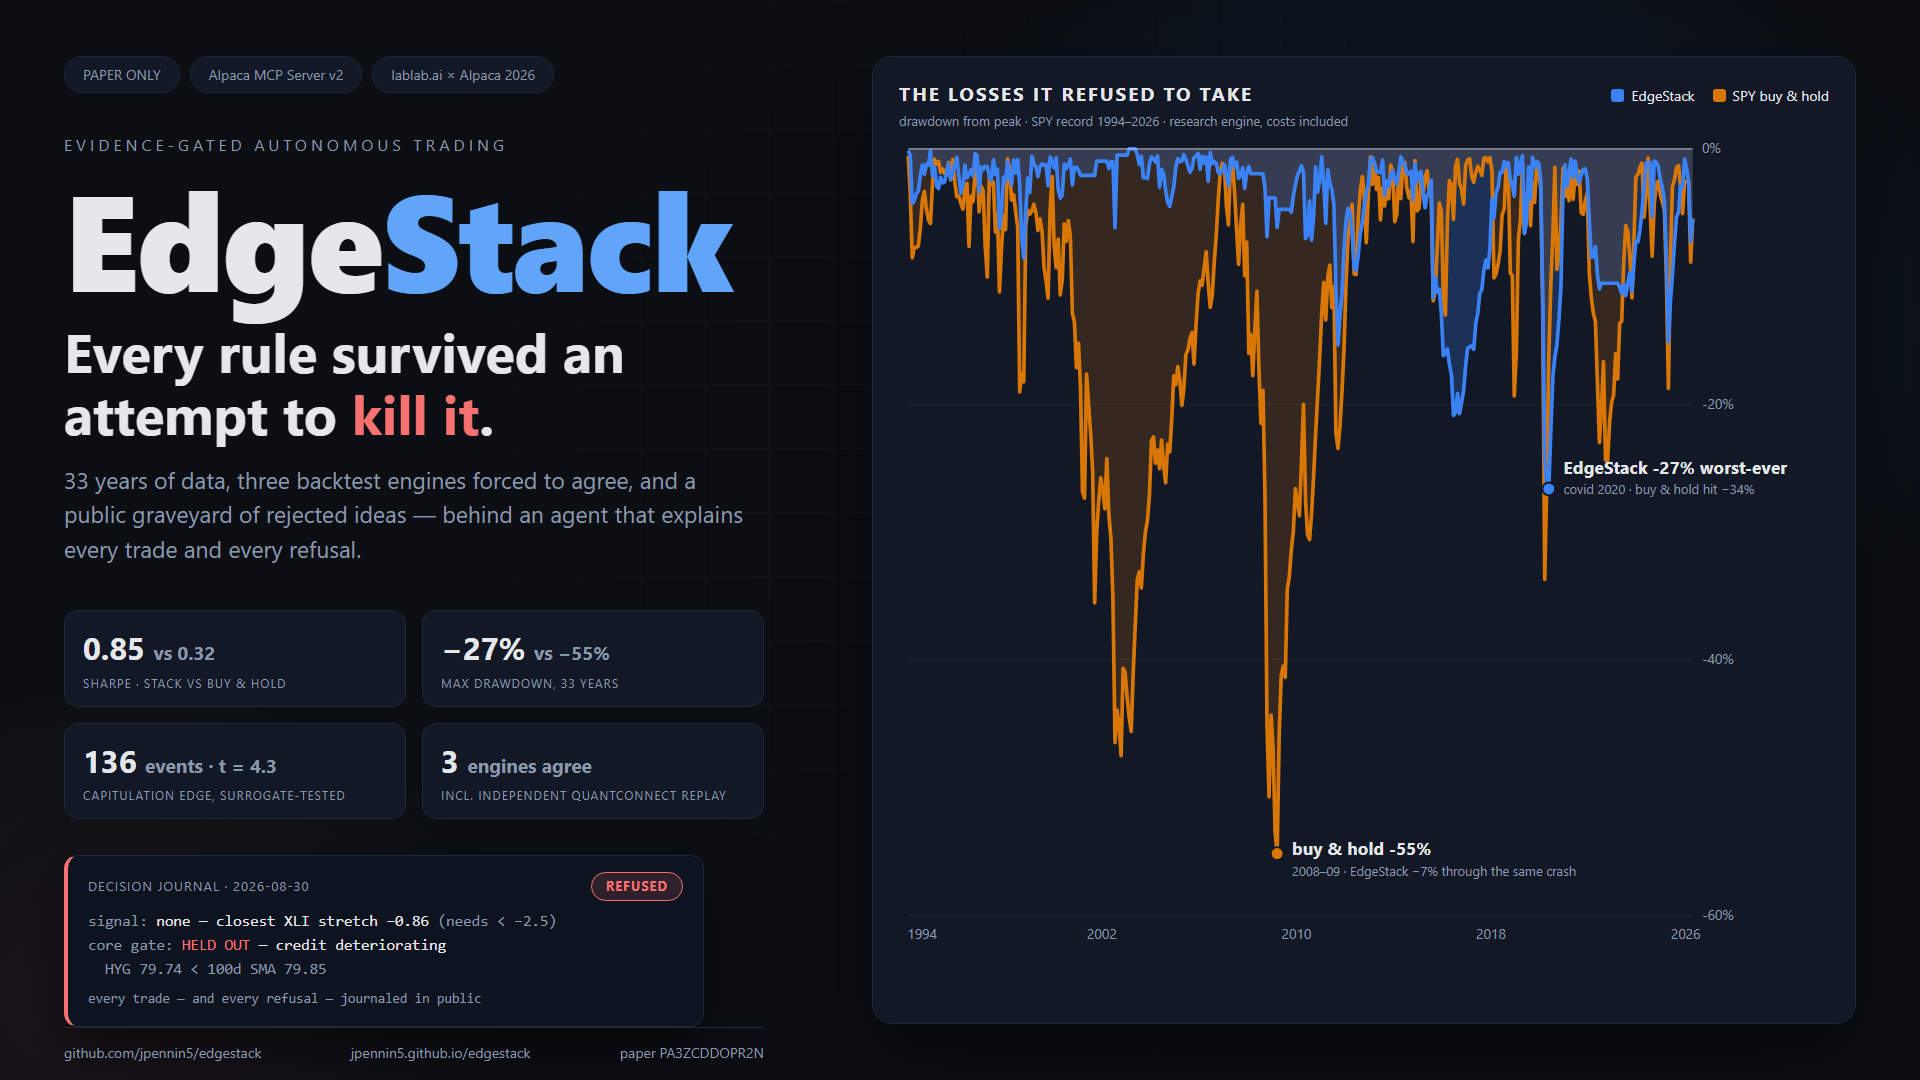
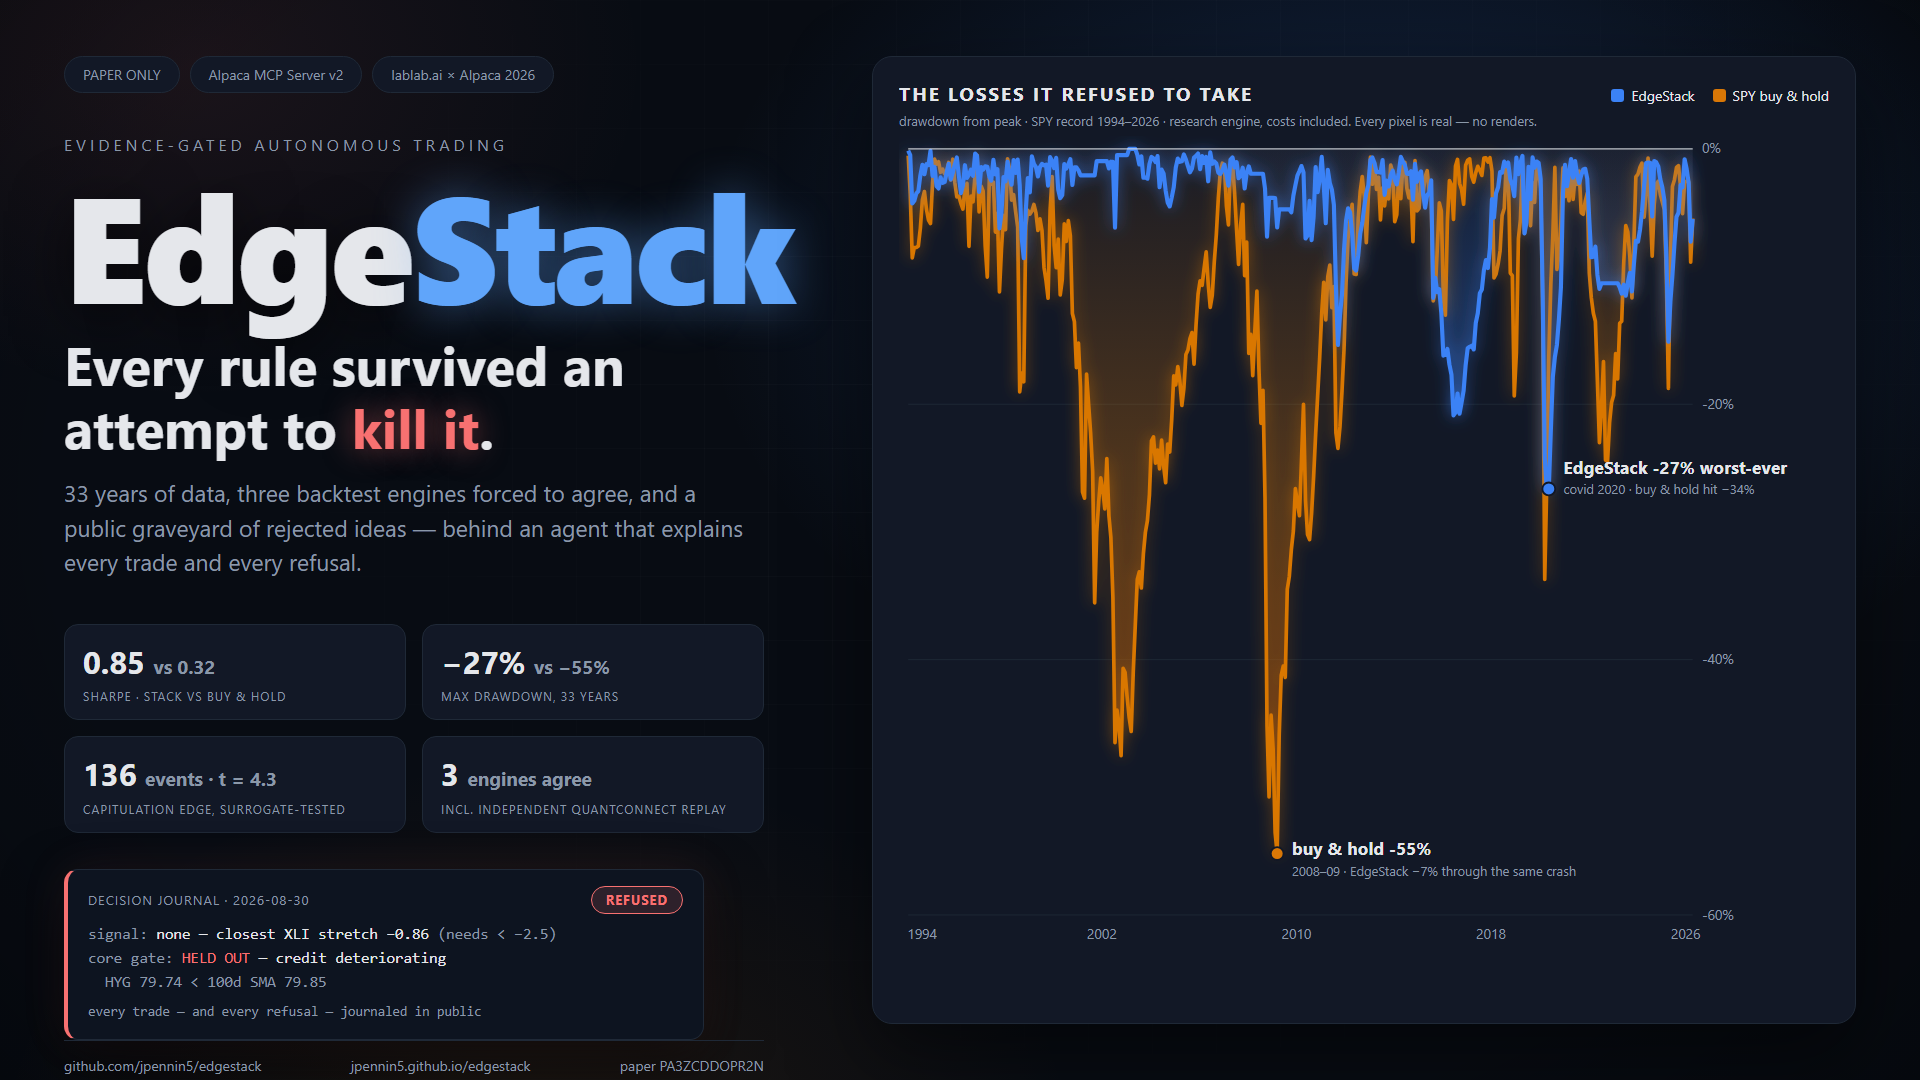
Cover: poster-grade pass after studying live competitor covers
Competitors run cinematic AI renders (engine/fortress/shield metaphors);
counter-position with cinematic treatment of the real record instead:
glow-filtered strokes, depth-graded canyon fills, atmospheric vignette,
150px wordmark with halo, and the line 'Every pixel is real - no renders'
under the chart title. Data and layout unchanged.

diff --git a/video/build_cover.py b/video/build_cover.py
@@ -54,12 +54,29 @@ cov_x, cov_y = sx(ts[0]), sy(ts[1])
 
 SVG = f"""
 <svg viewBox='0 0 {W} {H}' xmlns='http://www.w3.org/2000/svg' font-family='Segoe UI,system-ui,sans-serif'>
+  <defs>
+    <linearGradient id='af' x1='0' y1='0' x2='0' y2='1'>
+      <stop offset='0' stop-color='{AMBER}' stop-opacity='.04'/>
+      <stop offset='.45' stop-color='{AMBER}' stop-opacity='.30'/>
+      <stop offset='1' stop-color='#92400e' stop-opacity='.60'/>
+    </linearGradient>
+    <linearGradient id='bf' x1='0' y1='0' x2='0' y2='1'>
+      <stop offset='0' stop-color='{BLUE}' stop-opacity='.06'/>
+      <stop offset='1' stop-color='{BLUE}' stop-opacity='.44'/>
+    </linearGradient>
+    <filter id='ga' x='-30%' y='-30%' width='160%' height='160%'>
+      <feDropShadow dx='0' dy='0' stdDeviation='8' flood-color='{AMBER}' flood-opacity='.50'/>
+    </filter>
+    <filter id='gb' x='-30%' y='-30%' width='160%' height='160%'>
+      <feDropShadow dx='0' dy='0' stdDeviation='8' flood-color='{BLUE}' flood-opacity='.60'/>
+    </filter>
+  </defs>
   {grid_rows}{grid_cols}
-  <path d='{path(2, close=True)}' fill='{AMBER}' fill-opacity='.18'/>
-  <path d='{path(1, close=True)}' fill='{BLUE}' fill-opacity='.24'/>
-  <path d='{path(2)}' fill='none' stroke='{AMBER}' stroke-width='4' stroke-linejoin='round'/>
-  <path d='{path(1)}' fill='none' stroke='{BLUE}' stroke-width='4' stroke-linejoin='round'/>
-  <line x1='{PL}' y1='{sy(0):.1f}' x2='{W-PR}' y2='{sy(0):.1f}' stroke='#e5e7eb' stroke-width='1.5' opacity='.65'/>
+  <path d='{path(2, close=True)}' fill='url(#af)'/>
+  <path d='{path(1, close=True)}' fill='url(#bf)'/>
+  <path d='{path(2)}' fill='none' stroke='{AMBER}' stroke-width='4' stroke-linejoin='round' filter='url(#ga)'/>
+  <path d='{path(1)}' fill='none' stroke='{BLUE}' stroke-width='4.5' stroke-linejoin='round' filter='url(#gb)'/>
+  <line x1='{PL}' y1='{sy(0):.1f}' x2='{W-PR}' y2='{sy(0):.1f}' stroke='#e5e7eb' stroke-width='1.5' opacity='.8'/>
 
   <circle cx='{gfc_x:.1f}' cy='{gfc_y:.1f}' r='7' fill='{AMBER}' stroke='#121826' stroke-width='2'/>
   <text x='{gfc_x+16:.1f}' y='{gfc_y+2:.1f}' fill='#e5e7eb' font-size='19' font-weight='700'>buy &amp; hold {META['dd_bh']:.0f}%</text>
@@ -72,11 +89,13 @@ SVG = f"""
 
 HTML = f"""<!doctype html><html><head><meta charset='utf-8'><style>
 *{{box-sizing:border-box;margin:0}}
-body{{width:1920px;height:1080px;background:#0b0f14;color:#e5e7eb;overflow:hidden;
+body{{width:1920px;height:1080px;background:#080c13;color:#e5e7eb;overflow:hidden;
 font:16px/1.5 'Segoe UI',system-ui,sans-serif;position:relative}}
 body::before{{content:'';position:absolute;inset:0;
-background:radial-gradient(900px 640px at 74% 30%,rgba(59,130,246,.16),transparent 65%),
-radial-gradient(700px 520px at 6% 92%,rgba(248,113,113,.07),transparent 60%)}}
+background:radial-gradient(1100px 780px at 72% 26%,rgba(59,130,246,.22),transparent 62%),
+radial-gradient(900px 640px at 28% 106%,rgba(217,119,6,.10),transparent 60%),
+radial-gradient(760px 560px at 10% 6%,rgba(248,113,113,.08),transparent 60%),
+radial-gradient(1700px 1250px at 50% 46%,transparent 52%,rgba(0,0,0,.58) 100%)}}
 body::after{{content:'';position:absolute;inset:0;
 background:linear-gradient(#ffffff08 1px,transparent 1px),
 linear-gradient(90deg,#ffffff08 1px,transparent 1px);background-size:64px 64px;
@@ -88,10 +107,11 @@ mask-image:radial-gradient(1200px 900px at 60% 40%,#000,transparent 85%)}}
 font-size:14px;color:#8b98a9}}
 .kicker{{color:#8b98a9;letter-spacing:4px;font-size:16px;text-transform:uppercase;
 margin-bottom:10px}}
-.wordmark{{font-size:136px;font-weight:800;line-height:1.02;letter-spacing:-2px}}
-.wordmark .acc{{color:#60a5fa}}
-.headline{{font-size:54px;font-weight:700;line-height:1.16;margin-top:14px}}
-.headline .bad{{color:#f87171}}
+.wordmark{{font-size:150px;font-weight:800;line-height:1.0;letter-spacing:-3px;
+text-shadow:0 12px 60px rgba(0,0,0,.6)}}
+.wordmark .acc{{color:#60a5fa;text-shadow:0 0 46px rgba(96,165,250,.45)}}
+.headline{{font-size:54px;font-weight:700;line-height:1.16;margin-top:16px}}
+.headline .bad{{color:#f87171;text-shadow:0 0 30px rgba(248,113,113,.5)}}
 .sub{{font-size:23px;color:#8b98a9;line-height:1.5;margin-top:18px;max-width:700px}}
 .pills{{display:grid;grid-template-columns:1fr 1fr;gap:16px;margin-top:44px;max-width:700px}}
 .pill{{background:#121826;border:1px solid #1f2937;border-radius:14px;padding:14px 18px}}
@@ -112,7 +132,7 @@ vertical-align:-1px}}
 .journal{{width:640px;margin-top:36px;background:#0d1420;
 border:1px solid #1f2937;border-left:4px solid #f87171;border-radius:14px;
 padding:16px 20px;font-family:Consolas,monospace;font-size:15.5px;line-height:1.55;
-box-shadow:0 24px 60px rgba(0,0,0,.55)}}
+box-shadow:0 24px 60px rgba(0,0,0,.55),0 0 46px rgba(248,113,113,.10)}}
 .journal .jh{{display:flex;justify-content:space-between;align-items:center;
 margin-bottom:8px;font-family:'Segoe UI',system-ui,sans-serif}}
 .journal .jt{{color:#8b98a9;font-size:13px;letter-spacing:1px;text-transform:uppercase}}
@@ -156,7 +176,7 @@ border-radius:99px;padding:3px 14px;font-size:13px;font-weight:700;letter-spacin
     <div class='chart'>
       <div class='chead'>
         <div><div class='ctitle'>The losses it refused to take</div>
-          <div class='csub'>drawdown from peak \u00b7 SPY record 1994\u20132026 \u00b7 research engine, costs included</div></div>
+          <div class='csub'>drawdown from peak \u00b7 SPY record 1994\u20132026 \u00b7 research engine, costs included. Every pixel is real — no renders.</div></div>
         <div class='legend'><span><span class='sw' style='background:{BLUE}'></span>EdgeStack</span>
           <span><span class='sw' style='background:{AMBER}'></span>SPY buy &amp; hold</span></div>
       </div>
